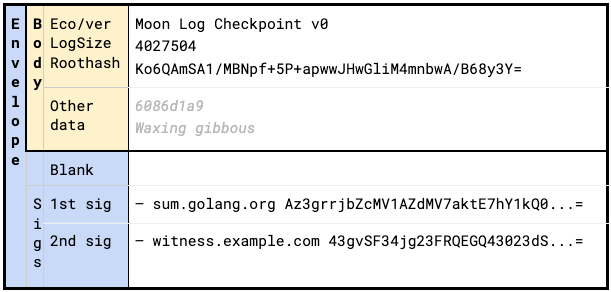
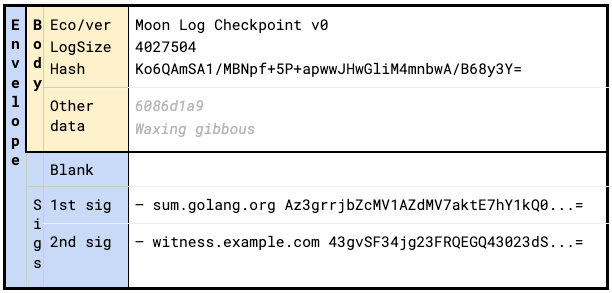
[Format] Rename RootHash to Hash (#332)

diff --git a/formats/log/checkpoint_test.go b/formats/log/checkpoint_test.go
@@ -34,19 +34,19 @@ func TestMarshal(t *testing.T) {
 			c: log.Checkpoint{
 				Ecosystem: "Log Checkpoint v0",
 				Size:      123,
-				RootHash:  []byte("bananas"),
+				Hash:      []byte("bananas"),
 			},
 			want: "Log Checkpoint v0\n123\nYmFuYW5hcw==\n",
 		}, {
 			c: log.Checkpoint{
 				Ecosystem: "Banana Checkpoint v5",
 				Size:      9944,
-				RootHash:  []byte("the view from the tree tops is great!"),
+				Hash:      []byte("the view from the tree tops is great!"),
 			},
 			want: "Banana Checkpoint v5\n9944\ndGhlIHZpZXcgZnJvbSB0aGUgdHJlZSB0b3BzIGlzIGdyZWF0IQ==\n",
 		},
 	} {
-		t.Run(string(test.c.RootHash), func(t *testing.T) {
+		t.Run(string(test.c.Hash), func(t *testing.T) {
 			got := test.c.Marshal()
 			if string(got) != test.want {
 				t.Fatalf("Marshal = %q, want %q", got, test.want)
@@ -69,7 +69,7 @@ func TestUnmarshalLogState(t *testing.T) {
 			want: log.Checkpoint{
 				Ecosystem: "Log Checkpoint v0",
 				Size:      123,
-				RootHash:  []byte("bananas"),
+				Hash:      []byte("bananas"),
 			},
 		}, {
 			desc: "valid with different ecosystem",
@@ -77,7 +77,7 @@ func TestUnmarshalLogState(t *testing.T) {
 			want: log.Checkpoint{
 				Ecosystem: "Banana Checkpoint v1",
 				Size:      9944,
-				RootHash:  []byte("the view from the tree tops is great!"),
+				Hash:      []byte("the view from the tree tops is great!"),
 			},
 		}, {
 			desc: "valid with trailing data",
@@ -85,7 +85,7 @@ func TestUnmarshalLogState(t *testing.T) {
 			want: log.Checkpoint{
 				Ecosystem: "Log Checkpoint v0",
 				Size:      9944,
-				RootHash:  []byte("the view from the tree tops is great!"),
+				Hash:      []byte("the view from the tree tops is great!"),
 			},
 			wantRest: []byte("Here's some associated data.\n"),
 		}, {
@@ -94,7 +94,7 @@ func TestUnmarshalLogState(t *testing.T) {
 			want: log.Checkpoint{
 				Ecosystem: "Log Checkpoint v0",
 				Size:      9944,
-				RootHash:  []byte("the view from the tree tops is great!"),
+				Hash:      []byte("the view from the tree tops is great!"),
 			},
 			wantRest: []byte("lots\nof\nlines\n"),
 		}, {
@@ -103,7 +103,7 @@ func TestUnmarshalLogState(t *testing.T) {
 			want: log.Checkpoint{
 				Ecosystem: "Log Checkpoint v0",
 				Size:      9944,
-				RootHash:  []byte("the view from the tree tops is great!"),
+				Hash:      []byte("the view from the tree tops is great!"),
 			},
 			wantRest: []byte("\n\n\n"),
 		}, {
@@ -203,7 +203,7 @@ func TestExtendCheckpoint(t *testing.T) {
 		Checkpoint: log.Checkpoint{
 			Ecosystem: "Moon Log Checkpoint v0",
 			Size:      4027504,
-			RootHash:  []byte("it's a root hash"),
+			Hash:      []byte("it's a root hash"),
 		},
 		Timestamp: 0x6086d1a9,
 		Phase:     "Waxing gibbous",
@@ -223,7 +223,7 @@ func TestExtendRoundTrip(t *testing.T) {
 		Checkpoint: log.Checkpoint{
 			Ecosystem: "Moon Log Checkpoint v0",
 			Size:      4027504,
-			RootHash:  []byte("it's a root hash"),
+			Hash:      []byte("it's a root hash"),
 		},
 		Timestamp: 0x6086d1a9,
 		Phase:     "Waxing gibbous",

diff --git a/formats/log/checkpoint.go b/formats/log/checkpoint.go
@@ -30,13 +30,13 @@ type Checkpoint struct {
 	Ecosystem string
 	// Size is the number of entries in the log at this checkpoint.
 	Size uint64
-	// RootHash is the hash which commits to the contents of the entire log.
-	RootHash []byte
+	// Hash is the hash which commits to the contents of the entire log.
+	Hash []byte
 }
 
 // Marshal returns the common format representation of this Checkpoint.
 func (c Checkpoint) Marshal() []byte {
-	return []byte(fmt.Sprintf("%s\n%d\n%s\n", c.Ecosystem, c.Size, base64.StdEncoding.EncodeToString(c.RootHash)))
+	return []byte(fmt.Sprintf("%s\n%d\n%s\n", c.Ecosystem, c.Size, base64.StdEncoding.EncodeToString(c.Hash)))
 }
 
 // Unmarshal parses the common formatted checkpoint data and stores the result
@@ -61,9 +61,9 @@ func (c *Checkpoint) Unmarshal(data []byte) ([]byte, error) {
 	if err != nil {
 		return nil, fmt.Errorf("invalid checkpoint - size invalid: %w", err)
 	}
-	rh, err := base64.StdEncoding.DecodeString(string(l[2]))
+	h, err := base64.StdEncoding.DecodeString(string(l[2]))
 	if err != nil {
-		return nil, fmt.Errorf("invalid checkpoint - invalid roothash: %w", err)
+		return nil, fmt.Errorf("invalid checkpoint - invalid hash: %w", err)
 	}
 	var rest []byte
 	if len(l[3]) > 0 {
@@ -72,7 +72,7 @@ func (c *Checkpoint) Unmarshal(data []byte) ([]byte, error) {
 	*c = Checkpoint{
 		Ecosystem: eco,
 		Size:      size,
-		RootHash:  rh,
+		Hash:      h,
 	}
 	return rest, nil
 }

diff --git a/serverless/internal/client/client.go b/serverless/internal/client/client.go
@@ -92,8 +92,8 @@ func NewProofBuilder(cp log.Checkpoint, h compact.HashFn, f FetcherFunc) (*Proof
 	if err != nil {
 		return nil, err
 	}
-	if !bytes.Equal(cp.RootHash, sr) {
-		return nil, fmt.Errorf("invalid checkpoint roothash %x, expected %x", cp.RootHash, sr)
+	if !bytes.Equal(cp.Hash, sr) {
+		return nil, fmt.Errorf("invalid checkpoint hash %x, expected %x", cp.Hash, sr)
 	}
 	return pb, nil
 }
@@ -329,7 +329,7 @@ func (lst *LogStateTracker) Update() error {
 			if err != nil {
 				return err
 			}
-			if err := lst.Verifier.VerifyConsistencyProof(int64(lst.LatestConsistent.Size), int64(c.Size), lst.LatestConsistent.RootHash, c.RootHash, p); err != nil {
+			if err := lst.Verifier.VerifyConsistencyProof(int64(lst.LatestConsistent.Size), int64(c.Size), lst.LatestConsistent.Hash, c.Hash, p); err != nil {
 				return ErrInconsistency{
 					SmallerRaw: lst.LatestConsistentRaw,
 					LargerRaw:  cRaw,

diff --git a/serverless/cmd/client/client.go b/serverless/cmd/client/client.go
@@ -171,11 +171,11 @@ func (l *logClientTool) inclusionProof(args []string) error {
 
 	glog.V(1).Infof("Built inclusion proof: %#x", proof)
 
-	if err := l.Verifier.VerifyInclusionProof(int64(idx), int64(cp.Size), proof, cp.RootHash, lh); err != nil {
+	if err := l.Verifier.VerifyInclusionProof(int64(idx), int64(cp.Size), proof, cp.Hash, lh); err != nil {
 		return fmt.Errorf("failed to verify inclusion proof: %q", err)
 	}
 
-	glog.Infof("Inclusion verified in tree size %d, with root 0x%0x", cp.Size, cp.RootHash)
+	glog.Infof("Inclusion verified in tree size %d, with root 0x%0x", cp.Size, cp.Hash)
 	return nil
 }
 

diff --git a/serverless/integration/integration_test.go b/serverless/integration/integration_test.go
@@ -94,7 +94,7 @@ func RunIntegration(t *testing.T, s log.Storage, f client.FetcherFunc) {
 			if err != nil {
 				t.Fatalf("Failed to fetch inclusion proof for %d: %v", idx, err)
 			}
-			if err := lv.VerifyInclusionProof(int64(idx), int64(newCheckpoint.Size), ip, newCheckpoint.RootHash, h); err != nil {
+			if err := lv.VerifyInclusionProof(int64(idx), int64(newCheckpoint.Size), ip, newCheckpoint.Hash, h); err != nil {
 				t.Fatalf("Invalid inclusion proof for %d: %x", idx, ip)
 			}
 		}

diff --git a/serverless/internal/storage/fs/fs_test.go b/serverless/internal/storage/fs/fs_test.go
@@ -40,7 +40,7 @@ func TestCreate(t *testing.T) {
 	if got, want := cp.Size, uint64(0); got != want {
 		t.Errorf("New checkpoint has size %d, want %d", got, want)
 	}
-	if got, want := cp.RootHash, empty; !bytes.Equal(got, want) {
+	if got, want := cp.Hash, empty; !bytes.Equal(got, want) {
 		t.Errorf("New checkpoint roothash %x, want %x", got, want)
 	}
 }

diff --git a/serverless/internal/log/integrate.go b/serverless/internal/log/integrate.go
@@ -135,8 +135,8 @@ func Integrate(st Storage, h hashers.LogHasher) (*log.Checkpoint, error) {
 	// it's meaningless for them to attempt to construct inclusion/consistency
 	// proofs.
 	newCP := log.Checkpoint{
-		RootHash: newRoot,
-		Size:     baseRange.End(),
+		Hash: newRoot,
+		Size: baseRange.End(),
 	}
 	return &newCP, nil
 }

diff --git a/serverless/internal/storage/fs/fs.go b/serverless/internal/storage/fs/fs.go
@@ -99,8 +99,8 @@ func Create(rootDir string, emptyHash []byte) (*Storage, error) {
 		rootDir: rootDir,
 		nextSeq: 0,
 		checkpoint: log.Checkpoint{
-			Size:     0,
-			RootHash: emptyHash,
+			Size: 0,
+			Hash: emptyHash,
 		},
 	}
 
